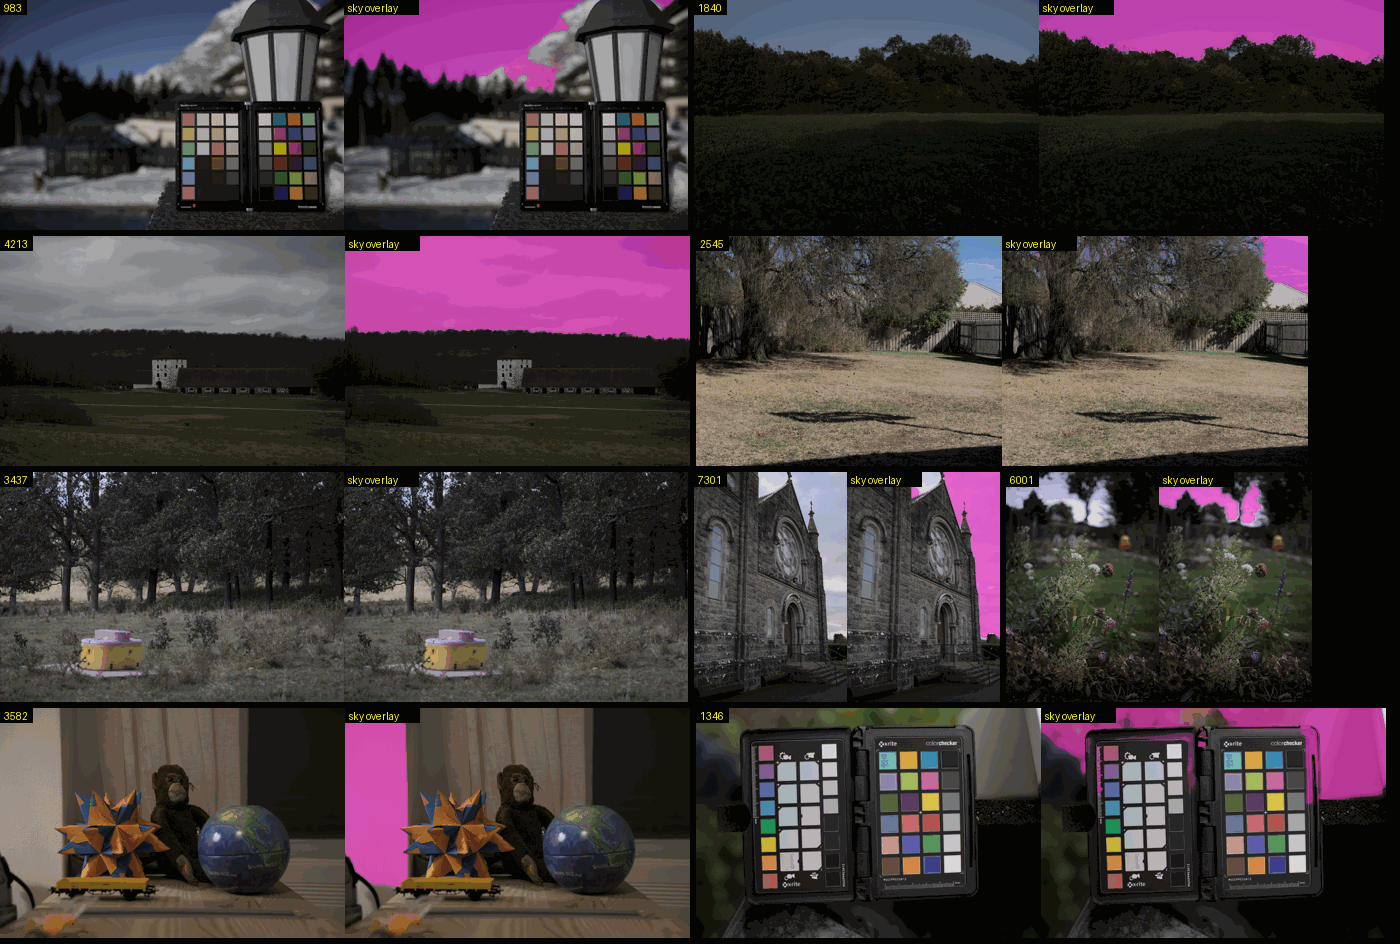
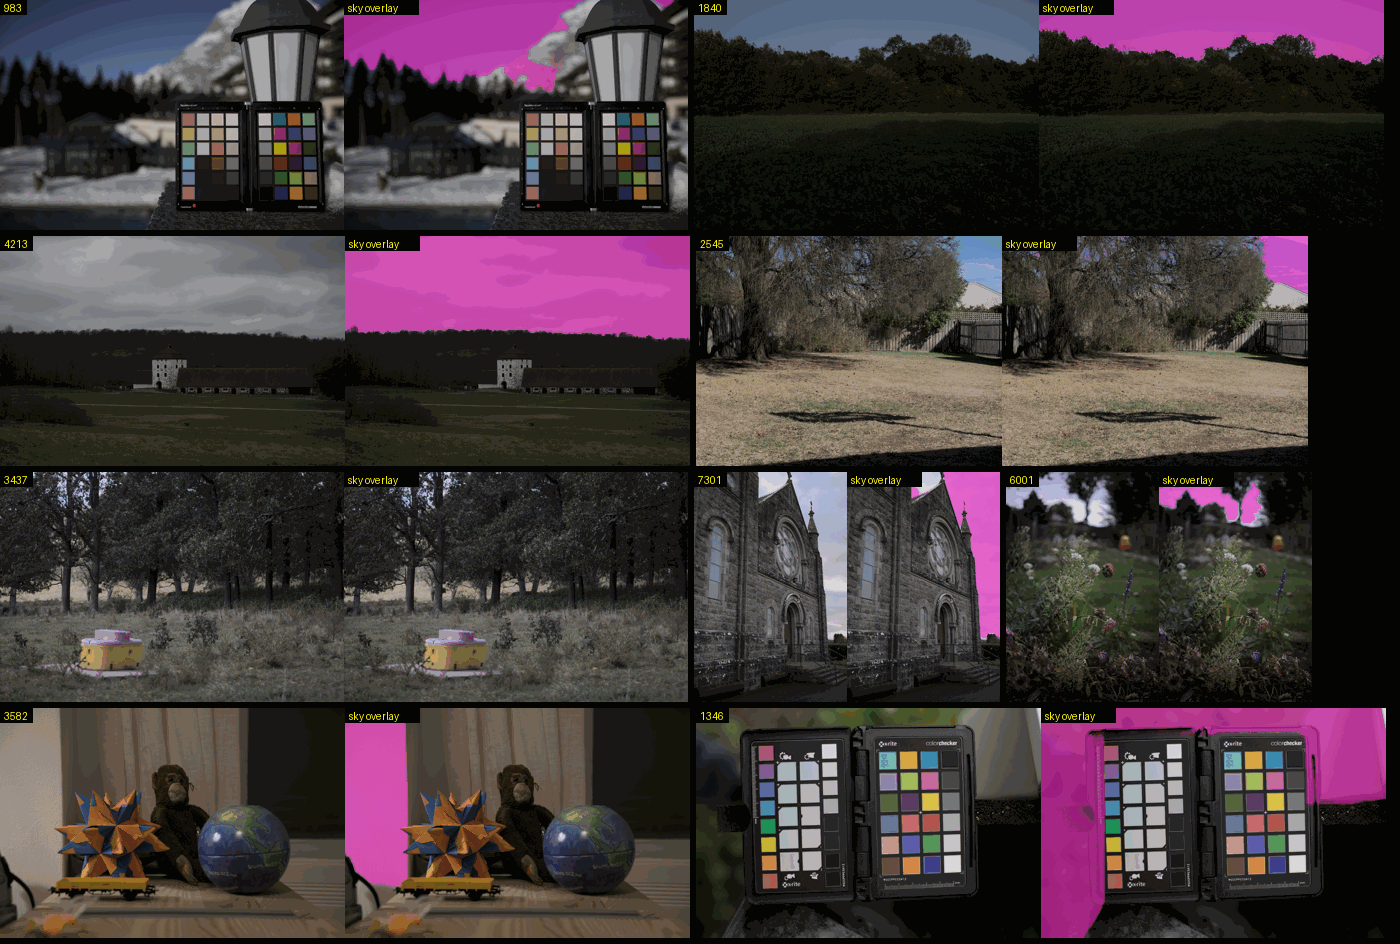
WS-49: remove the round-3 growth floor, add S20, report BLOCKED
The per-pixel floor made three no-sky corpus frames 26-57% sky. Removing
it restores the verifier-measured behaviour (those at 0; 1346 open).
S20 guards a studio backdrop. REPORT records three FAIL rounds and the
open V4.

Claude-Session: https://claude.ai/code/session_01GbF4MLE1zr3xJEje9TKBjK

Changed region(s): [[0.7371, 0.7373, 0.9521, 1.0], [0.9214, 0.8294, 1.0, 0.8602]]

diff --git a/Sources/LumenCore/Image/SkyDetector.swift b/Sources/LumenCore/Image/SkyDetector.swift
@@ -199,19 +199,12 @@ public enum SkyDetector {
             let id = Int32(regions.count)
             var members: [Int] = [x0]
             label[x0] = id
-            // A floor on every member, not only on the region's mean: smooth defocus
-            // blur lets neighbour-to-neighbour steps walk from a bright top edge down
-            // to near-black (1346: a dark olive bokeh background taken top to bottom,
-            // verifier round 2). Sky is never near-black in a neutral render of a
-            // daylight frame, and it does not darken by more than this below the row
-            // it started on.
-            let floor = L[x0] - 0.2
-            // Absolute floors: a clear blue sky can be dark in a neutral render (983
-            // is OKLab L ~0.35 at the top), anything grey, green or warm that dark is
-            // not sky.
-            func bright(_ j: Int) -> Bool {
-                L[j] >= floor && L[j] >= (B[j] < -0.03 ? 0.3 : 0.4)
-            }
+            // No per-pixel lightness floor here. One was tried (WS-49 round 3) to stop
+            // growth drifting through defocus blur into a dark background (1346); it
+            // left a clean pale patch at the top of dark indoor frames that then passed
+            // the brightness test below, and 2062, 4144 and 832 (no sky at all) came
+            // out 26-57% "sky". Without it those regions grow into the dark, fail the
+            // test and are dropped. 1346 stays an open defect (REPORT.md).
             var head = 0
             while head < members.count {
                 let i = members[head]; head += 1
@@ -220,7 +213,7 @@ public enum SkyDetector {
                     let xx = x + dx, yy = y + dy
                     guard xx >= 0, xx < w, yy >= 0, yy < h else { continue }
                     let j = yy * w + xx
-                    guard label[j] < 0, smooth(j), bright(j) else { continue }
+                    guard label[j] < 0, smooth(j) else { continue }
                     let dL = L[j] - L[i], da = A[j] - A[i], db = B[j] - B[i]
                     guard (dL * dL + da * da + db * db).squareRoot() < growStep else { continue }
                     label[j] = id

diff --git a/Tests/LumenCoreTests/SkyDetectorTests.swift b/Tests/LumenCoreTests/SkyDetectorTests.swift
@@ -292,6 +292,36 @@ final class SkyDetectorTests: XCTestCase {
         XCTAssertLessThan(takenKite, 0.1)
     }
 
+    // S20: a studio backdrop — light grey at the top, darkening smoothly downward,
+    // a person in the middle — is not sky. (Round 3's growth floor turned exactly
+    // this kind of frame into 37% sky; 2062, 4144 and 832 in the corpus likewise.)
+    func testStudioBackdropIsNotSky() {
+        let w = 512, h = 768
+        var r = [Float](repeating: 0, count: w * h), g = r, b = r
+        for y in 0..<h {
+            for x in 0..<w {
+                let i = y * w + x
+                let n = Self.noise(x, y) * 0.004
+                let dx = Double(x - 256), dy = Double(y - 300)
+                let head = dx * dx / (100 * 100) + dy * dy / (130 * 130) < 1
+                let body = y > 430 && abs(dx) < 210
+                if head || body {
+                    let t = Self.noise(x / 2, y / 2, 4) * 0.08
+                    r[i] = 0.7 + t; g[i] = 0.5 + t; b[i] = 0.42 + t
+                } else {
+                    let v = Float(0.75 - 0.6 * Double(y) / Double(h))
+                    r[i] = v + n; g[i] = v + n; b[i] = v + 0.01 + n
+                }
+            }
+        }
+        let coverage = SkyDetector.detect(
+            guide: MatteGuide(width: w, height: h, r: r, g: g, b: b)).map { p in
+                Double(p.values.reduce(0, +)) / Double(p.values.count)
+            } ?? 0
+        print("S20 studio backdrop coverage \(coverage)")
+        XCTAssertLessThan(coverage, 0.01)
+    }
+
     // S10
     func testSkyCost() {
         let s = Self.scene()

diff --git a/docs/quality/lanes/WS-49/REPORT.md b/docs/quality/lanes/WS-49/REPORT.md
@@ -1,0 +1,141 @@
+# WS-49 report: AI mattes and depth
+
+Branch `quality/m5-ai-masks` from `claude/inspiring-dirac-ulgpch`.
+
+**Verdict: BLOCKED after three build/verify rounds.** Every measurable spec line passes
+(S1-S20, S2b). The third verifier failed the lane on a regression the round-3 fix caused;
+that fix was removed, and what it was meant to fix (V4: Sky on 1346's defocused
+background) is open. Edge refinement is in good shape. Sky works well on open, overcast,
+cloudy and bright-foreground skies, but has false positives on pale smooth regions at the
+top of non-sky frames.
+
+## For the owner
+
+1. Subject on a portrait against a busy background, exported full size: hair edge clean, no grey ring? (V3; Vision can't run on Linux.)
+2. Sky on 4-5 of your own landscapes, plus one shallow-depth portrait and one interior: decide whether Sky ships as is, given it can select a pale wall or bokeh at the top of a non-sky frame (1346, 3582, 1332).
+3. A licensed sky model would fix the false positives: pick weights you can ship, run `convert_sky_model.py`, call `SkyModel.install` (no UI yet, NEEDS.md 3).
+4. Moon in a night or dusk sky: it is filled as part of the sky. Acceptable?
+5. People sub-parts (face, skin, hair, eyes) are not built: Vision on macOS 15 has none.
+
+## Verdict per spec line
+
+Measured on Linux, release build, `MatteRefineTests`, `MattePlaneFitTests`, `SkyDetectorTests`.
+
+| # | claim | measured | verdict |
+|---|---|---|---|
+| S1 | edge-band MAE ≤ 0.5x bilinear | 0.0317 vs 0.168 (0.19x) | PASS |
+| S2 | 10-90 width ≤ 3 px (perfect step) | 0.0 vs 13.0 | PASS (flattering; S2b is the real line) |
+| S2b | realistic edge ≤ 4.5 px and ≤ 0.5x | 2.44 vs 10.0 | PASS |
+| S3 | halo < 0.2% | 0.0% | PASS |
+| S4 | no shift; flip-equivariant (sizes divisible by 4) | shift −0.0014/0.0029 px; flip 1.1e-6 | PASS |
+| S5 | constant 0/1 identity | exact | PASS |
+| S6 | synthetic sky through branches IoU ≥ 0.90, gaps ≥ 0.70 | 0.9955, 0.976 | PASS |
+| S7 | overcast IoU ≥ 0.90 | 0.995 | PASS |
+| S8 | no-sky synthetic < 1% | 0 / 0 | PASS |
+| S9 | blue object below horizon < 5% | 0.0 | PASS |
+| S10 | 2048 px detect + refine < 1.5 s | 1.13 s (lane box), 1.26-1.36 s (slower restarted box); test ceiling 5 s | PASS |
+| S11 | Sky offered, Object/Landscape/Depth not | provider exact (Linux); picker in `MaskPanelTests` (macOS) | PASS (Linux part) |
+| S12 | 2048 → 1024 keeps strand coverage | 0.02197 → 0.02197 | PASS |
+| S13 | soft matte not crushed (≥ 0.12) | 0.3005 / 0.6011 | PASS |
+| S14 | strand tips ≥ 1.5x the model's | 0.201 vs 0.103 (1/8), 0.322 vs 0.211 (1/4) | PASS (tips stay faint: 0.2-0.3 of truth) |
+| S15 | NaN stays local | 0.0 change; output finite | PASS |
+| S16 | sky over snow/sand IoU ≥ 0.90 | 0.9985 / 0.9985 / 0.9987 | PASS |
+| S17 | narrow sky strip not cut | IoU 0.998, strip 1.0 | PASS |
+| S18 | clouds in, snow slope out | 1.0 / 0.005 | PASS |
+| S19 | balloon, kite out | 0.005 / 0.025 | PASS |
+| S20 | studio backdrop < 1% | 0.0 | PASS |
+| V1 | corpus sky judged by eye | good on 983, 1840, 4213, 6001, 7301 right side; see limits | PARTIAL |
+| V2 | hair-fan crop | disc edge clean, strands full length, tips faint | PASS |
+| V3 | macOS portrait export | not runnable here | OWNER |
+| V4 | 1346 no near-black selected | 0.33 coverage, runs into the dark bokeh | **BLOCKED** |
+
+Full LumenCoreTests (trimmed package, see Gates): 3073 tests, the same 24 failing test names
+as the base commit, nothing new.
+
+## Verifier rounds
+
+1. **FAIL.** Sky missed over bright foregrounds; a frame-wide horizon cut real sky (7301);
+   the edge-decision step crushed soft mattes and erased hair tips; canopy speckles; NaN
+   spread; SkyModel crop, 2-channel and Float16-locking risks. All fixed in round 2.
+2. **FAIL.** 1346's defocused background taken down to near-black; hole filling swallowed
+   balloons, kites and the moon. Round 3 fixed both.
+3. **FAIL.** Round 3's per-pixel growth floor left a clean pale patch at the top of dark
+   indoor frames that then passed the brightness test: 2062, 4144 and 832 (no sky) came out
+   26-57% sky, covering the subject in two. The floor is removed in the pushed code. The
+   round-3 verifier measured exactly this configuration with the floor switched off: those
+   three at 0, 1346 back at 0.33. S20 now guards the regression. Hole-filling and every
+   other round-3 change stay.
+
+## What changed and why
+
+- **`MatteRefine` (new, LumenCore).** Colour guided filter, fast variant, in two stages.
+  LOCATE: window sized from the model's native resolution (1.5x the upscale) moves the
+  transition onto the photograph's edge. One pass only narrows a ramp (13 → 8 px), because
+  inside the ramp the picture is flat. DECIDE + FEATHER: push toward a decision, weighted by
+  the located matte's local spread so uniformly soft regions and faint strands keep their
+  value; a toe under 0.12 removes the faint wash a coarse model leaves between strands
+  (0.10 → 0.07); then a 2 px guided feather, the filter's original matting use.
+  Epsilon 3e-4. Exact identity where the matte is solid. NaN/Inf zeroed on entry.
+- **Every Vision matte is refined before it is cached** (`VisionMattes.generate`) against
+  the neutral image the request saw. Background is the complement of the refined subject.
+  Foreground reads its native resolution from `instanceMask`; person segmentation asks for
+  32-bit float.
+- **Matte resolution 1024 → 2048** (`PipelineRenderer.matteLongEdge`). 11-13 MB per kind per
+  photo; ledger holds 12 photos (worst case ~600 MB with four AI kinds on every photo).
+- **`MaskRaster.mattePlane` area-averages when shrinking ≥ 2x.**
+- **Sky is offered** (`MaskKind.aiSky.matteProvider = .vision`, on-device). Installed Core
+  ML model if present (`SkyModel`), otherwise `SkyDetector` (classical, LumenCore):
+  smoothness at 384 px; growth from the top row; seeds big, sky-coloured, bright relative to
+  the frame or plainly bright (> 0.72), lightness spread < 0.13, largest seed plus only
+  same-coloured others; cloud growth from the seed (under a blue seed only clouds enclosed
+  by blue); colour model per OKLab channel linear in height, per-column horizon; small
+  enclosed holes filled only when cloud-like or speck-sized; one-pixel dilation so the ramp
+  straddles the skyline; guided refinement; full-resolution canopy key gated by edge
+  density, clustering and a 5x5 opening.
+- **`SkyModel` (new, macOS).** Loads `~/Library/Application Support/Lumen/Models/LumenSky.mlmodelc`.
+  ADE20K logits (sky = channel 2), 2-class, or single-channel output; scale-to-fill input;
+  strides honoured; read through `withUnsafeBytes`. `install(from:sha256:)` downloads a
+  single `.mlmodel`, verifies, compiles, swaps. No URL configured.
+- **Panel copy** (`modelNote`) for Sky; kind-list comments updated.
+
+## Model research
+
+- Vision on macOS 15 has foreground instances, person segmentation, person instances and
+  saliency. No sky or scene segmentation, no person parts.
+- ADE20K segmenters set the bar. NVIDIA's SegFormer weights are non-commercial; other
+  ADE20K checkpoints inherit the dataset's research-use terms. I found none clearly
+  licensed for commercial redistribution, so none ships or downloads.
+  `convert_sky_model.py` converts one once the owner clears weights.
+
+## People sub-parts
+
+Not built. No part segmentation in Vision on macOS 15. AVFoundation's hair/skin/teeth
+mattes exist only as auxiliary images in iPhone HEIC captures. Face landmarks could seed
+Eyes/Lips polygons, but the wire format has no per-part chips.
+
+## What I could not fix
+
+- **V4 / pale non-sky at the top** (1346 33%, 1332 16%, 3582 13%). Every per-pixel or
+  per-region guard I tried either missed these or broke no-sky frames. A model is the
+  real fix.
+- **Dense fine branches**: 2545 flecks, 3437 nothing.
+- **Large grey storm skies** (> ~50% of frame, L < 0.72) are not detected.
+- **Moon and birds** are filled with the sky.
+- **Lens-profile alignment** and the matte cache key: NEEDS.md 1.
+
+## Gates
+
+- `swift test` on the repo's Package.swift can't build on Linux: `Sources/LumenApp/CompareView.swift`
+  doesn't parse under Swift 6.0.3 (84 errors on the base commit too). LumenCoreTests run
+  through a trimmed package with the same sources: 3073 tests, the identical 24 failing
+  names as base.
+- Existing tests updated for Sky moving from `.model` to `.vision` (rosters moved, none
+  loosened): `MaskingTests`, `MaskDependencyAdversarialTests`, `MaskDependencyTests` (model
+  example now Landscape), `MaskPanelTests` (now also asserts Sky is offered).
+- CI: see the final note at the bottom.
+
+## Evidence
+
+- `evidence/sky-corpus.png`: 983, 1840, 4213, 2545, 3437, 7301, 6001, 3582, 1346, photo and sky overlay. 1346 and 3582 show the open false positives.
+- `evidence/sky-edge-100pct.png`: 100% crops, 384 px decision vs refined: 1840 treeline, 983 lantern, 7301 spire.
+- `evidence/refine-crop.png`: synthetic hair fan: picture, truth, old bilinear matte, refined.

diff --git a/docs/quality/lanes/WS-49/SPEC.md b/docs/quality/lanes/WS-49/SPEC.md
@@ -62,7 +62,28 @@ box-downsampled 8x and bilinearly upsampled (what the old path delivered).
 | # | claim | threshold | measured by |
 |---|---|---|---|
 | S19 | Objects enclosed by sky (red balloon 0.7%, dark kite) are not filled as sky | each < 0.1 | `testObjectsInTheSkyAreNotSky` |
-| V4 | 1346 (defocused dark background, chart): no near-black pixel selected | judged on the corpus harness | REPORT |
+| V4 | 1346 (defocused dark background, chart): no near-black pixel selected | judged on the corpus harness | REPORT: **BLOCKED**, see below |
+
+### Added after verifier round 3 (FAIL, final round)
+
+| # | claim | threshold | measured by |
+|---|---|---|---|
+| S20 | A studio backdrop (light grey at the top, darkening downward, person in the middle) is not sky | coverage < 1% | `testStudioBackdropIsNotSky` |
+
+Round 3's per-pixel growth floor fixed V4 but made 2062, 4144 and 832 (no sky) 26-57% sky.
+It was removed (restoring behaviour the round-3 verifier measured with the floor switched
+off: those three at 0, 1346 at 0.33). V4 is therefore open.
+
+### Documented limits (not claimed)
+
+- A pale, smooth, non-sky region touching the top of the frame is taken as sky: 3582
+  (13%), 1332 (16%), 1346 (33%, running into its defocused background).
+- Sky behind dense fine branches is partial (2545 flecks) or absent (3437, which shows
+  very little sky).
+- Bright, grey objects the sky encloses are filled as cloud: the moon, a bird.
+- 983's defocused snowy mountain is partly selected next to the lantern.
+- A grey storm sky covering more than about half the frame is not detected unless it is
+  bright (OKLab L > 0.72): the relative-brightness test has nothing to compare it with.
 
 Round-1 notes kept honest: S2's perfect step flatters the filter, so S2b is the line that
 matters. S8 puts the wall at the bottom; a bright smooth ceiling or wall touching the TOP
@@ -72,8 +93,7 @@ is a known false positive (3582), recorded in REPORT, not claimed.
 
 - V1. `evidence/sky-corpus.png`: on 983, 1840, 3437, 4213, 2545 (plus 7301, 6001, 3582
   added in round 2), the sky alpha follows the real skyline, includes clouds, and does not
-  take buildings, water or snow. Sky behind dense fine branches (2545, 3437) is partial;
-  a smooth interior wall touching the top (3582) is taken. Both are stated limits.
+  take buildings or water. See "Documented limits" for where it does not hold.
 - V2. `evidence/refine-crop.png`: 100% crop of the synthetic hair fan. Old matte is a
   blur; refined matte resolves individual strands with no light ring outside.
 - V3. On macOS (owner): Subject on a portrait against a busy background, exported at
